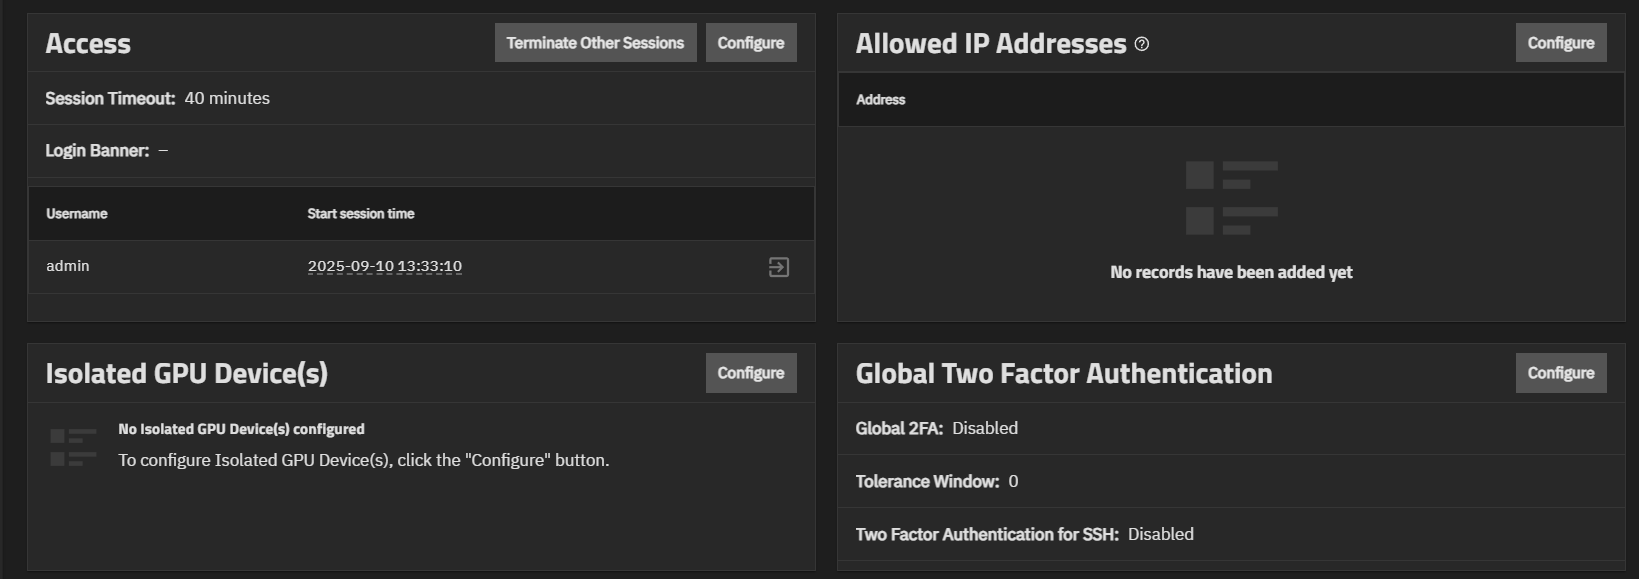
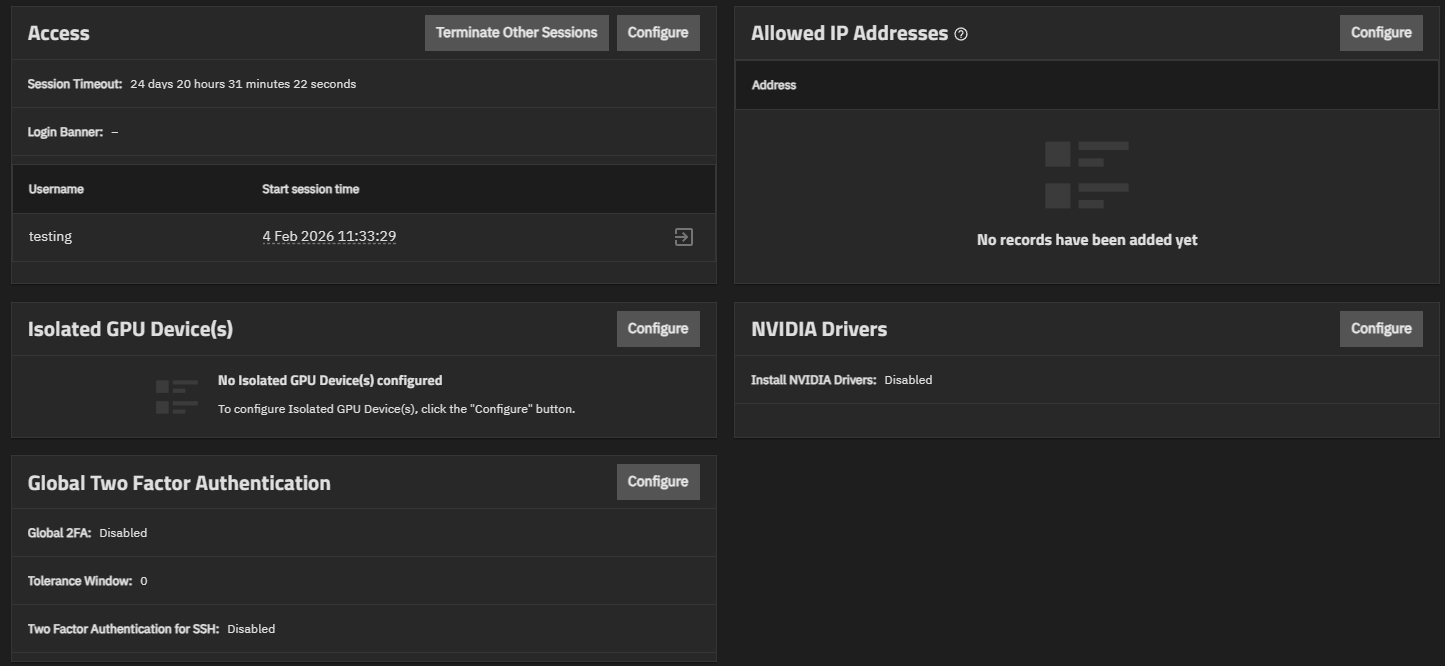
Add NVIDIA drivers docs and UI images
Add documentation and assets for installing/removing NVIDIA GPU drivers in Advanced Settings. Creates an "Installing NVIDIA Drivers" section in the Advanced tutorial, updates the Advanced Settings UI reference to use a settings table and link to the tutorial, and adds two new images for the NVIDIA Drivers widget and configuration screen. Also updates SystemAdvancedScreen2.png and SystemAdvancedScreen3.png screenshots.

diff --git a/content/SCALE/SCALETutorials/SystemSettings/Advanced/_index.md b/content/SCALE/SCALETutorials/SystemSettings/Advanced/_index.md
@@ -19,7 +19,7 @@ keywords:
 - software storage solutions
 ---
 
-**Advanced Settings** provides configuration options for the console, syslog, kernel, sysctl, replication, cron jobs, init/shutdown scripts, system dataset pool, isolated GPU device(s), self-encrypting drives, system access sessions, allowed IP addresses, audit logging, and global two-factor authentication.
+**Advanced Settings** provides configuration options for the console, syslog, kernel, sysctl, replication, cron jobs, init/shutdown scripts, system dataset pool, isolated GPU device(s), NVIDIA drivers, self-encrypting drives, system access sessions, allowed IP addresses, audit logging, and global two-factor authentication.
 
 {{< enterprise >}}
 Enterprise-licensed system administrators have additional options to configure security-related settings, such as FIPS and STIG compatibility and Self-Encrypting Drive (SED) configuration.
@@ -131,6 +131,40 @@ Entering an IP address limits access to the system to only the address(es) enter
 {{< include file="/static/includes/AccessWidget.md" >}}
 
 {{< include file="/static/includes/ConfigureAccessSettings.md" >}}
+
+## Installing NVIDIA Drivers
+
+The **NVIDIA Drivers** widget allows you to install or remove NVIDIA GPU drivers on your system.
+NVIDIA GPU support is required for containers that use NVIDIA GPUs for graphics acceleration or computation.
+
+{{< trueimage src="/images/SCALE/SystemSettings/NVIDIADriversWidget.png" alt="NVIDIA Drivers Widget" id="NVIDIA Drivers Widget" >}}
+
+Click **Configure** to open the **NVIDIA Drivers** configuration screen.
+
+{{< trueimage src="/images/SCALE/SystemSettings/NVIDIADriversConfigScreen.png" alt="NVIDIA Drivers Configuration Screen" id="NVIDIA Drivers Configuration Screen" >}}
+
+To install NVIDIA drivers:
+
+1. Select **Install NVIDIA Drivers**.
+2. Click **Save**.
+
+{{< hint type=warning >}}
+Installing NVIDIA drivers requires the system to use the production kernel.
+If **Enable Debug Kernel** is selected, NVIDIA driver installation fails.
+Disable the debug kernel before installing NVIDIA drivers.
+{{< /hint >}}
+
+After installation completes, NVIDIA GPU devices become available for assignment to containers.
+To verify installation, check that your GPU devices appear in the container GPU device selection list.
+
+To uninstall the drivers:
+
+1. Deselect **Install NVIDIA Drivers**.
+2. Click **Save**.
+
+Containers using NVIDIA GPUs cannot start after driver removal.
+
+See [NVIDIA Drivers Widget]({{< relref "/SCALE/SCALEUIReference/SystemSettings/AdvancedSettingsScreen.md#nvidia-drivers-widget" >}}) in the UI Reference for detailed field descriptions.
 
 ## Security Settings
 {{< enterprise >}}

diff --git a/content/SCALE/SCALEUIReference/SystemSettings/AdvancedSettingsScreen.md b/content/SCALE/SCALEUIReference/SystemSettings/AdvancedSettingsScreen.md
@@ -475,12 +475,15 @@ Earlier architectures (Pascal, Maxwell, Volta) are not compatible.
 
 ### NVIDIA Drivers Configuration Screen
 
-The **NVIDIA Drivers** configuration screen allows you to install or remove NVIDIA GPU drivers on your system.
+The **NVIDIA Drivers** configuration screen controls the installation and removal of NVIDIA GPU drivers on the system.
 
 {{< trueimage src="/images/SCALE/SystemSettings/NVIDIADriversConfigScreen.png" alt="NVIDIA Drivers Configuration Screen" id="NVIDIA Drivers Configuration Screen" >}}
 
-**Install NVIDIA Drivers** installs the NVIDIA GPU drivers on the system.
-Select this option to enable NVIDIA GPU support for containers.
+{{< truetable >}}
+| Setting | Description |
+|---------|-------------|
+| **Install NVIDIA Drivers** | Installs or removes NVIDIA GPU drivers. Select to install drivers and enable NVIDIA GPU support for containers. Deselect to remove installed drivers. Containers using NVIDIA GPUs cannot start after driver removal. |
+{{< /truetable >}}
 
 {{< hint type=warning >}}
 Installing NVIDIA drivers requires the system to use the production kernel.
@@ -489,10 +492,8 @@ See [Debug Kernel](#debug-kernel) for more information.
 {{< /hint >}}
 
 After installation completes, NVIDIA GPU devices become available for assignment to containers.
-To verify installation, check that your GPU devices appear in the container GPU device selection list.
 
-**Uninstall** removes the NVIDIA GPU drivers from the system.
-Containers using NVIDIA GPUs cannot start after driver removal.
+See [Installing NVIDIA Drivers]({{< relref "/SCALE/SCALETutorials/SystemSettings/Advanced/_index.md#installing-nvidia-drivers" >}}) in the Advanced Settings tutorial for step-by-step instructions.
 
 ## Global Two Factor Authentication Widget
 
